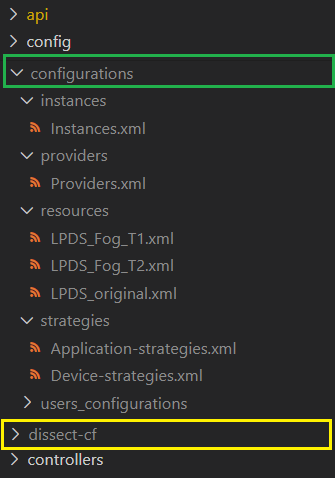
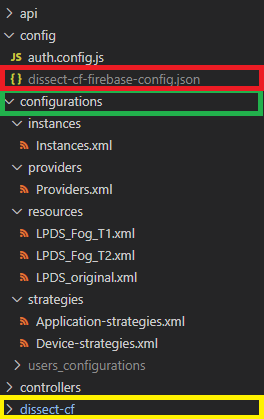
updating README.md and server-setup-file-explorer.png

Changed region(s): [[0.0, 0.0, 1.0, 1.0]]

diff --git a/dissect-cf-fog-server/README.md b/dissect-cf-fog-server/README.md
@@ -1,10 +1,10 @@
 # DISSECT-CF-Fog-WebApp: Server
 
-This server is part of DISSECT-CF-Fog-WebApp. It is written in Node.js with Express.js and MySQL.
+This server is part of DISSECT-CF-Fog-WebApp. It is written in Node.js with Express.js using Firabase as database and file storage.
 It uses the [DISSECT-CF-Fog java application](https://github.com/andrasmarkus/dissect-cf), which generates the configuration's result.
 
 ## Setup the server
-Basicly there are the required folders and files for running the server. The basic resource files are provided, and also the DISSET-CF-Fog java application too (from refactor branch with [a49f55e044](https://github.com/andrasmarkus/dissect-cf/commit/a49f55e044e9294ca84d871070a5b3ad1d9de7ce) commit - 26.09.2020) But in few points there are the required settings for the server:
+Basicaly there are the required folders and files for running the server. The basic resource files are provided, and also the DISSET-CF-Fog java application too (from refactor branch with [a49f55e044](https://github.com/andrasmarkus/dissect-cf/commit/a49f55e044e9294ca84d871070a5b3ad1d9de7ce) commit - 26.09.2020) But in few points there are the required settings for the server:
 
 - Create/ modify **dissect-cf** folder for the java application directly into the *dissect-cf-fog-server* folder. The folder's name should be dissect-cf. You can download the app from [here](https://github.com/andrasmarkus/dissect-cf)
 - Create/modify **configurations** folder for configurations and for resources directly into the *dissect-cf-fog-server* folder. The folder's name should be configurations.
@@ -24,6 +24,10 @@ Basicly there are the required folders and files for running the server. The bas
         </strategies>
         ```
   - **user_configurations** - this folder conatins the users folders  
+- Create/use an existing Firebase account and place the projects private key in **config/** folder using the filename **"dissect-cf-firebase-config.json"**
+  - You can generate and save Firebase credentials json file with the private key by visiting https://console.firebase.google.com/ and opening Settings > Service Accounts menu
+  - Note that everytime you generate a new private key the previous one stops working immediately.
+  - Store this private key securely.
 
 The setup should be look like that:  
 ![Alt File explorer](../readme-assets/server-setup-file-explorer.png)
